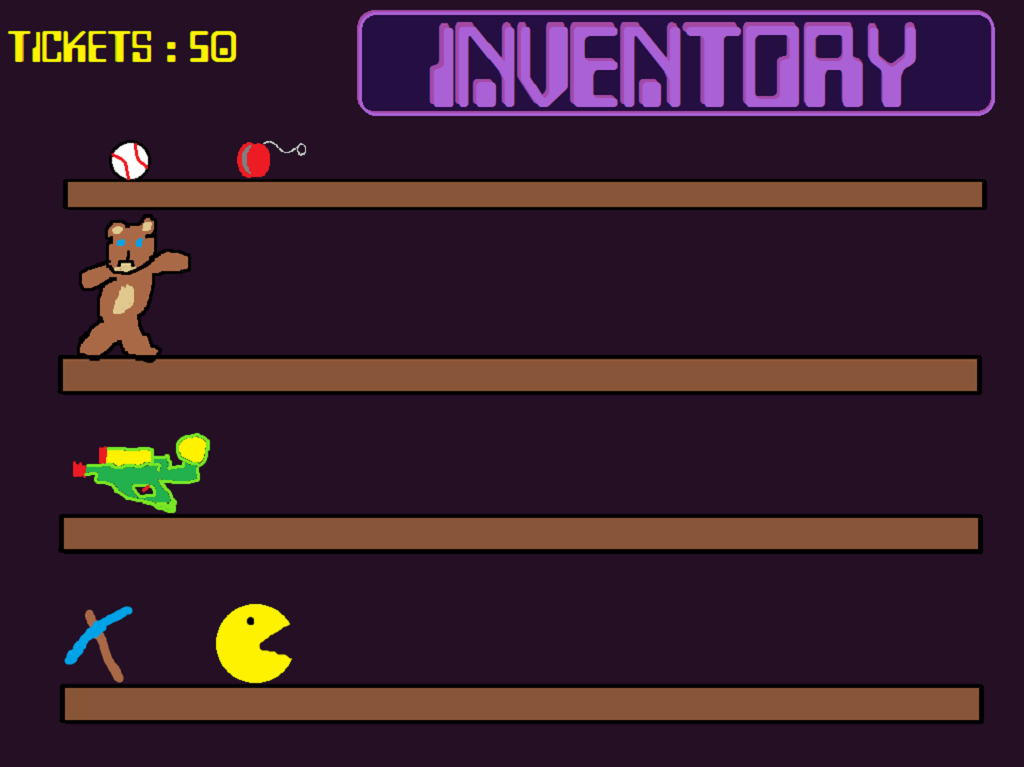
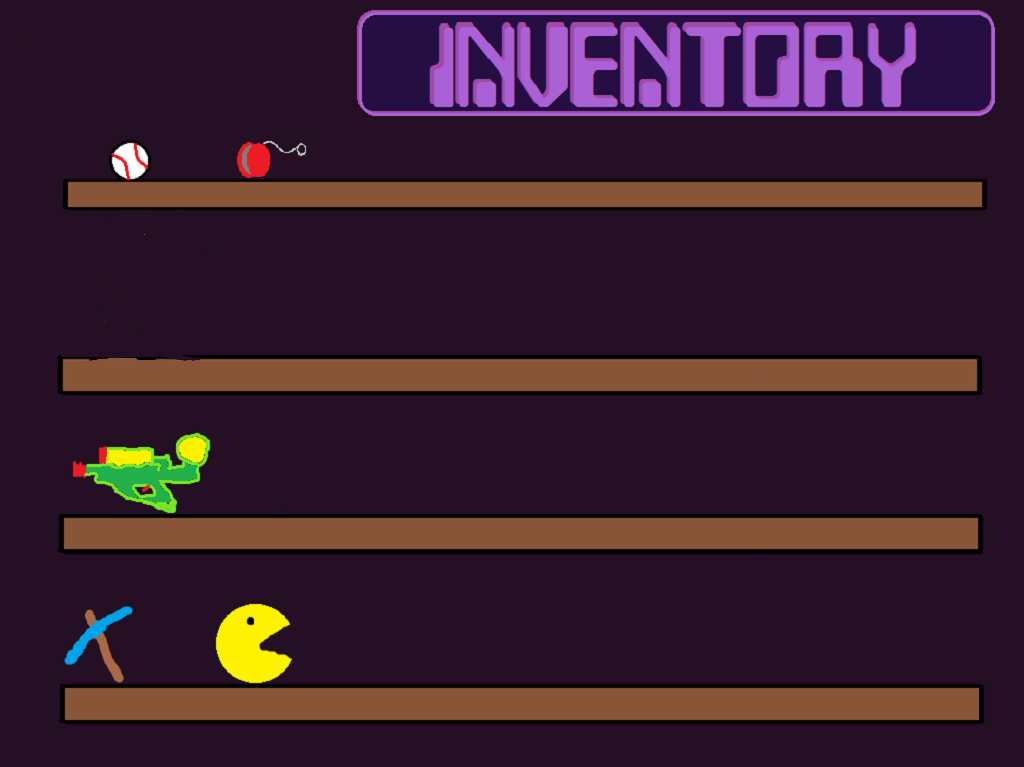
edits on inventory and ticketshop

Changed region(s): [[0.0625, 0.2699, 0.1875, 0.4798], [0.0, 0.03, 0.25, 0.09]]

diff --git a/HyperArcadeApplication/src/devin/Inventory.java b/HyperArcadeApplication/src/devin/Inventory.java
@@ -8,6 +8,7 @@ import guiTeacher.components.Button;
 import guiTeacher.components.Graphic;
 import guiTeacher.interfaces.Visible;
 import guiTeacher.userInterfaces.FullFunctionScreen;
+import hyperArcade.ArcadeGUI;
 
 
 public class Inventory extends FullFunctionScreen {
@@ -22,11 +23,15 @@ public class Inventory extends FullFunctionScreen {
 	@Override
 	public void initAllObjects(List<Visible> viewObjects) {
 		viewObjects.add(new Graphic(0, 0, getWidth(),getHeight(),"resources/inventory.png"));
-		//back = new Button (0,100,200,100,"GO Back",new Action() {
-			//public void act() {
-			//	ArcadeGUI.test.setScreen(ArcadeGUI.screen1);
-		//	}
-		//}
+		back = new Button (0,50,200,100,"GO Back",new Action() {
+			public void act() {
+				ArcadeGUI.hyperArcade.setScreen(ArcadeGUI.homeScreen);
+			}
+		});
+		viewObjects.add(back);
 	}
-
+	//buttons to go back, maybe implement custom image button to make it better.
+	//arrays on inventory board, brown broads will serve as a marker for the array. could use an image for brown board.
+	//needs to implement ticket interface, which is what I will be making.
+	
 }

diff --git a/HyperArcadeApplication/src/devin/TicketShop.java b/HyperArcadeApplication/src/devin/TicketShop.java
@@ -2,11 +2,15 @@ package devin;
 
 import java.util.List;
 
+import guiTeacher.components.Action;
+import guiTeacher.components.Button;
 import guiTeacher.components.Graphic;
 import guiTeacher.interfaces.Visible;
 import guiTeacher.userInterfaces.FullFunctionScreen;
+import hyperArcade.ArcadeGUI;
 
 public class TicketShop extends FullFunctionScreen {
+	private Button back;
 
 	public TicketShop(int width, int height) {
 		super(width, height);
@@ -15,8 +19,14 @@ public class TicketShop extends FullFunctionScreen {
 
 	@Override
 	public void initAllObjects(List<Visible> viewObjects) {
-		viewObjects.add(new Graphic(0, 0, getWidth(),getHeight(),"resources/Ticket_Shop.png"));
-
+		//viewObjects.add(new Graphic(0, 0, getWidth(),getHeight(),"resources/Ticket_Shop.png"));
+		back = new Button (0,50,200,100,"GO Back",new Action() {
+			public void act() {
+				ArcadeGUI.hyperArcade.setScreen(ArcadeGUI.homeScreen);
+			}
+		});
+		viewObjects.add(back);
 	}
-
 }
+
+

diff --git a/HyperArcadeApplication/src/hyperArcade/ArcadeMain.java b/HyperArcadeApplication/src/hyperArcade/ArcadeMain.java
@@ -21,6 +21,7 @@ import devin.Inventory;
 import devin.TicketShop;
 
 public class ArcadeMain extends FullFunctionScreen {
+	private Button back;
 
 
 	public ArcadeMain(int width, int height) {
@@ -141,8 +142,11 @@ public class ArcadeMain extends FullFunctionScreen {
 		inventory.setForeground(Color.white);
 		viewObjects.add(inventory);
 
-
 	}
+
+
+	
+
 	
 
 	public static void main(String[] args) {
